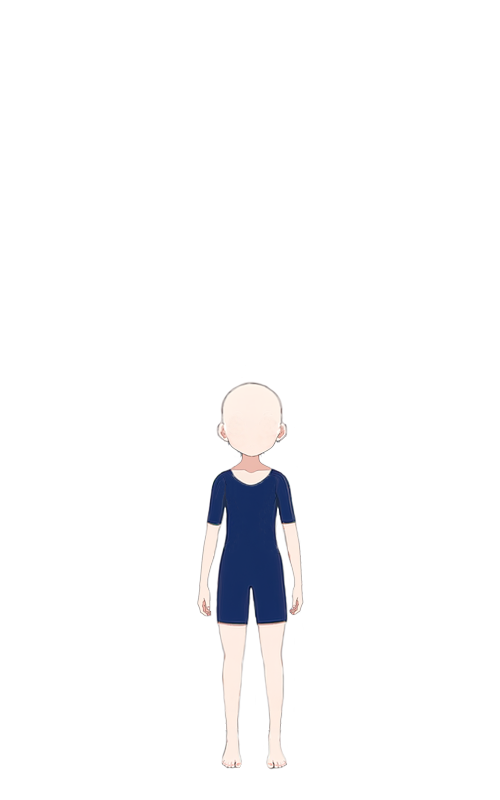
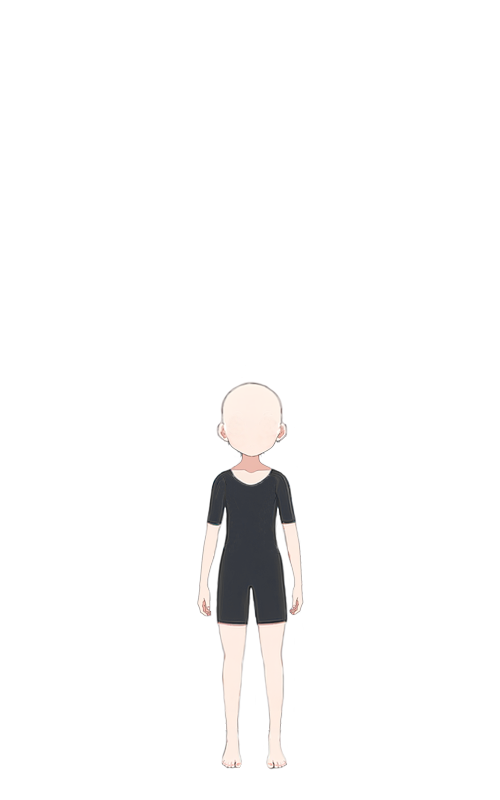
어린이 여 패션 추가

Changed region(s): [[0.42, 0.5938, 0.6, 0.7812]]

diff --git a/src/lib/fashion.ts b/src/lib/fashion.ts
@@ -59,7 +59,12 @@ export const FASHION_ITEMS: Record<
     shoes: [{ id: "shoes1", name: "클래식 스쿨룩 신발", price: 40 }],
     accessories: [],
   },
-  child_female: { tops: [], bottoms: [], shoes: [], accessories: [] },
+  child_female: {
+    tops: [{ id: "tops1", name: "키즈 스쿨룩", price: 50 }],
+    bottoms: [],
+    shoes: [{ id: "shoes1", name: "키즈 스쿨룩 신발", price: 40 }],
+    accessories: [],
+  },
   child_male: { tops: [], bottoms: [], shoes: [], accessories: [] },
 };
 
